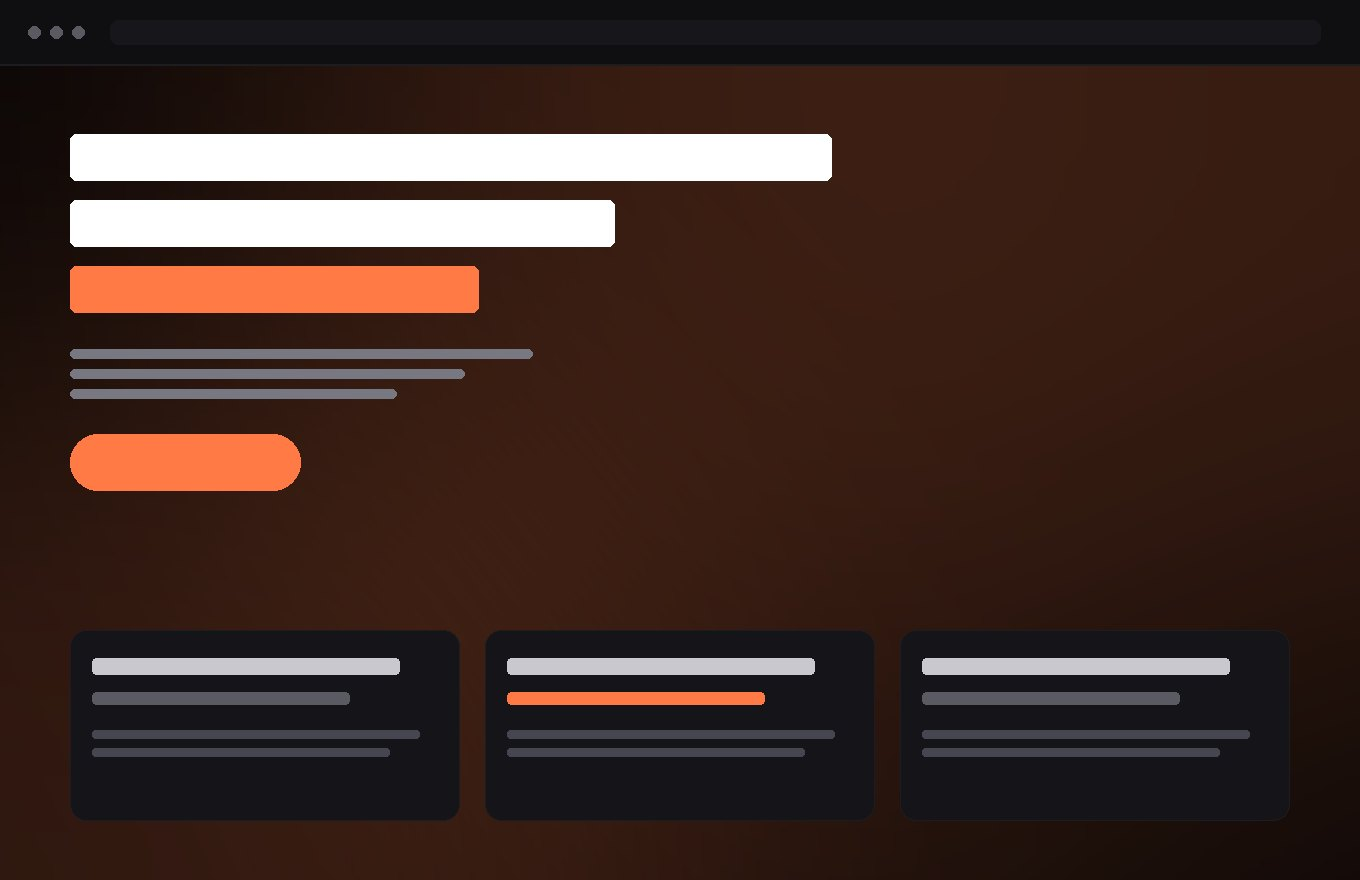
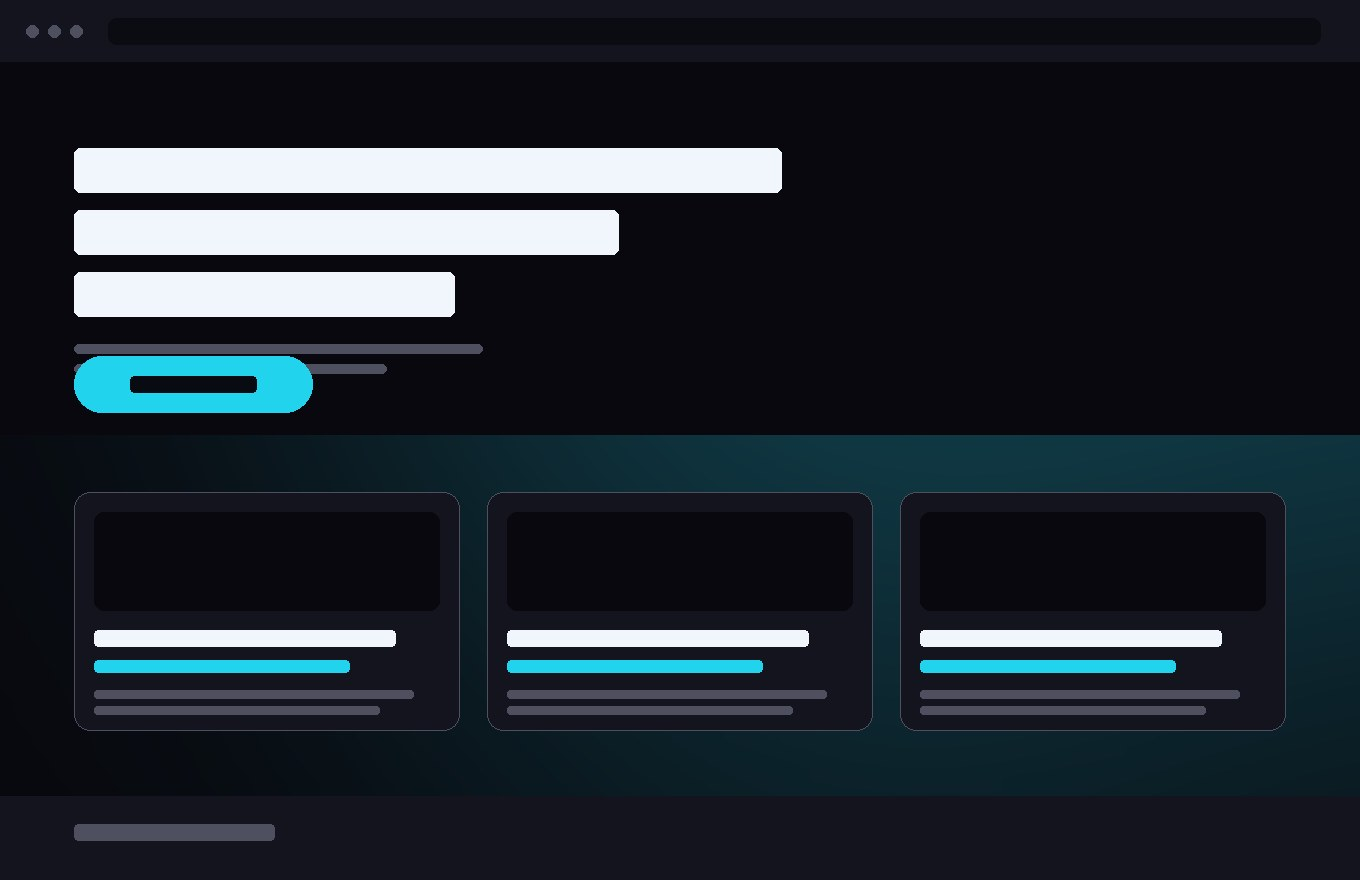
feat: wire the real projects into the work section
- Heihere Lodge (heiherelodge.com), holiday rental in Moorea, and Raiko
  Glow (raikoglow.com), an LED online store, now fill rows 01 and 02 with
  their real names, sectors and outbound links. Row 03 is a non-link
  "details to come" state with a pulsing dot until its URL arrives.
- Regenerate the three preview mockups in each project's actual palette
  (Heihere: cream and deep navy with an amber CTA; Raiko Glow: near-black
  with cyan neon; third: the studio's own red) so the section reads as
  three distinct sites rather than one repeated placeholder.
- Translate the follow-cursor label, which was hardcoded French.

The mockups remain placeholders: the session's network policy blocks both
domains, and the Higgsfield sandbox could reach Heihere Lodge but its
screenshot could not be transferred back (the byte stream is truncated in
transit). Replace assets/img/work-01.jpg and work-02.jpg with real
680x440 captures when available; nothing else needs to change.

Claude-Session: https://claude.ai/code/session_01WrUBpq3YvCB46U2qrJihZY

diff --git a/index.html b/index.html
@@ -80,7 +80,7 @@
 
 <!-- ============ CURSOR ============ -->
 <div class="cur" id="cur" aria-hidden="true"><span class="cur__dot"></span></div>
-<div class="cur-ring" id="curRing" aria-hidden="true"><span>VOIR</span></div>
+<div class="cur-ring" id="curRing" aria-hidden="true"><span data-i18n="cur.view">Voir</span></div>
 
 <!-- ============ SCROLL PROGRESS ============ -->
 <div class="prog" aria-hidden="true"><i id="progBar"></i></div>
@@ -297,30 +297,30 @@
     <h2 class="h1 reveal-up" data-i18n="work.h">Trois sites livrés.<br>Trois fois satisfait.</h2>
 
     <div class="wlist" id="wlist">
-      <a class="wrow" href="#" data-img="assets/img/work-01.jpg">
+      <a class="wrow" href="https://heiherelodge.com" target="_blank" rel="noopener noreferrer" data-img="assets/img/work-01.jpg">
         <span class="wrow__n">01</span>
-        <span class="wrow__t" data-i18n="w1.t">Projet un</span>
-        <span class="wrow__m" data-i18n="w.new">Création complète</span>
+        <span class="wrow__t" data-i18n="w1.t">Heihere Lodge</span>
+        <span class="wrow__m" data-i18n="w1.m">Hébergement · Moorea</span>
         <span class="wrow__y">2026</span>
         <svg class="wrow__a" viewBox="0 0 24 24" aria-hidden="true"><path d="M4 12h15M13 6l6 6-6 6" fill="none" stroke="currentColor" stroke-width="1.6" stroke-linecap="round" stroke-linejoin="round"/></svg>
         <img class="wrow__inline" src="assets/img/work-01.jpg" alt="" loading="lazy" decoding="async" width="680" height="440">
       </a>
-      <a class="wrow" href="#" data-img="assets/img/work-02.jpg">
+      <a class="wrow" href="https://raikoglow.com" target="_blank" rel="noopener noreferrer" data-img="assets/img/work-02.jpg">
         <span class="wrow__n">02</span>
-        <span class="wrow__t" data-i18n="w2.t">Projet deux</span>
-        <span class="wrow__m" data-i18n="w.mod">Modernisation</span>
+        <span class="wrow__t" data-i18n="w2.t">Raiko Glow</span>
+        <span class="wrow__m" data-i18n="w2.m">Boutique en ligne · LED</span>
         <span class="wrow__y">2026</span>
         <svg class="wrow__a" viewBox="0 0 24 24" aria-hidden="true"><path d="M4 12h15M13 6l6 6-6 6" fill="none" stroke="currentColor" stroke-width="1.6" stroke-linecap="round" stroke-linejoin="round"/></svg>
         <img class="wrow__inline" src="assets/img/work-02.jpg" alt="" loading="lazy" decoding="async" width="680" height="440">
       </a>
-      <a class="wrow" href="#" data-img="assets/img/work-03.jpg">
+      <div class="wrow wrow--soon" data-img="assets/img/work-03.jpg">
         <span class="wrow__n">03</span>
-        <span class="wrow__t" data-i18n="w3.t">Projet trois</span>
-        <span class="wrow__m" data-i18n="w.new">Création complète</span>
+        <span class="wrow__t" data-i18n="w3.t">Troisième projet</span>
+        <span class="wrow__m" data-i18n="w3.m">Détails à venir</span>
         <span class="wrow__y">2026</span>
-        <svg class="wrow__a" viewBox="0 0 24 24" aria-hidden="true"><path d="M4 12h15M13 6l6 6-6 6" fill="none" stroke="currentColor" stroke-width="1.6" stroke-linecap="round" stroke-linejoin="round"/></svg>
+        <span class="wrow__dot" aria-hidden="true"></span>
         <img class="wrow__inline" src="assets/img/work-03.jpg" alt="" loading="lazy" decoding="async" width="680" height="440">
-      </a>
+      </div>
     </div>
     <p class="work__more reveal-up" data-i18n="work.more">+ d'autres projets actuellement en production</p>
   </div>

diff --git a/style.css b/style.css
@@ -169,7 +169,7 @@ html.is-loading,html.is-loading body{overflow:hidden;height:100%}
   transition:width .35s var(--e-out),height .35s var(--e-out),margin .35s var(--e-out),
              border-color .3s,background-color .3s;
 }
-.cur-ring span{font-size:9px;letter-spacing:.16em;text-transform:uppercase;opacity:0;transition:opacity .25s;color:#fff}
+.cur-ring span{font-size:9px;letter-spacing:.16em;text-transform:uppercase;opacity:0;transition:opacity .25s;color:#fff;white-space:nowrap}
 body.cur-hov .cur-ring{width:62px;height:62px;margin:-31px 0 0 -31px;border-color:var(--red)}
 body.cur-hov .cur__dot{opacity:0}
 body.cur-view .cur-ring{width:86px;height:86px;margin:-43px 0 0 -43px;background:var(--red);border-color:var(--red)}
@@ -450,6 +450,11 @@ html.js .wrow{opacity:0}
   .wrow.act .wrow__t{color:var(--white)}
   .wrow.act .wrow__a{color:var(--red);transform:translateX(8px)}
 }
+.wrow--soon{cursor:default;color:var(--ash-dim)}
+.wrow--soon .wrow__t{color:var(--ash-dim)}
+.wlist.dim .wrow--soon{opacity:.3}
+.wrow__dot{width:9px;height:9px;border-radius:50%;background:var(--red);justify-self:center;
+  box-shadow:0 0 0 0 rgba(230,32,43,.65);animation:pulse 2s ease-out infinite}
 .work__more{margin-top:clamp(1.6rem,4vw,2.6rem);color:var(--ash);font-size:.92rem}
 .peek{
   position:fixed;top:0;left:0;width:clamp(240px,24vw,360px);aspect-ratio:17/11;

diff --git a/script.js b/script.js
@@ -598,6 +598,7 @@ const I18N = {
   en: {
     'skip':'Skip to content',
     'fab':'Let’s talk',
+    'cur.view':'View',
     'hero.eyebrow':'Independent web studio · Tahiti · since 2026',
     'hero.l1':'Your website',
     'hero.l2':'shouldn’t just',
@@ -659,8 +660,9 @@ const I18N = {
 
     'work.label':'05 / Work',
     'work.h':'Three sites delivered.<br>Three happy clients.',
-    'w1.t':'Project one','w2.t':'Project two','w3.t':'Project three',
-    'w.new':'Full build','w.mod':'Modernisation',
+    'w1.t':'Heihere Lodge','w1.m':'Holiday rental · Moorea',
+    'w2.t':'Raiko Glow','w2.m':'Online store · LED',
+    'w3.t':'Third project','w3.m':'Details to come',
     'work.more':'+ more projects currently in production',
 
     'fin.l1':'Let’s','fin.l2':'talk.',
